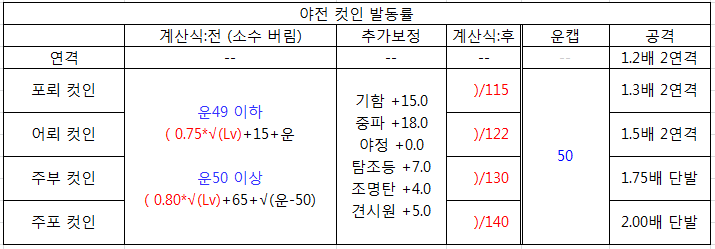
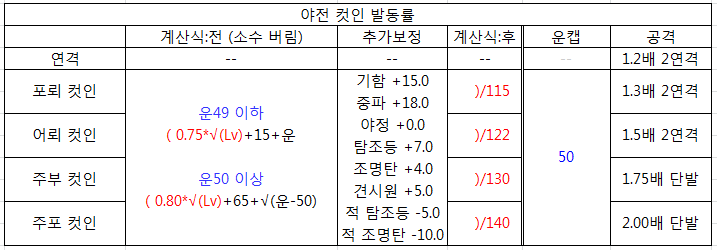
Add files via upload

diff --git a/index.html b/index.html
@@ -9,7 +9,9 @@
 <h1>컷인 발동률</h1>
 
 	<div class="input_parameter">
-		LV : <input type="number" id="input_lv" value="0" />
+		<fieldset>
+		<legend>아군</legend>
+		Lv : <input type="number" id="input_lv" value="0" />
 		<br><br>
 		운 : <input type="number" id="input_luck" value="0" />
 		<br><br>
@@ -51,15 +53,36 @@
           <option value="5">True</option>
           <option value="0" selected>False</option>
        </select>
+	   </fieldset>
+
+	   <fieldset>
+	   <legend>적</legend>
+	   	탐조등 : 
+       <select id="e_searchlight">
+          <option value="5">True</option>
+          <option value="0" selected>False</option>
+       </select>
+	   &nbsp&nbsp
+	   	조명탄 : 
+       <select id="e_flare">
+          <option value="10">True</option>
+          <option value="0" selected>False</option>
+       </select>
+	   </fieldset>
 	</div>
 	<br>
+	<fieldset>
+	<legend>결과</legend>
 	컷인 발동률 : 
 	<font size="3"><p class="result" style="display:inline"></p></font>
-	<br><br>
+	</fieldset>
+	<br>
 	<b>계산식</b><br>
 	<img src="cal.png"> 
 	<br><br>
-	참고 : <a href="https://gall.dcinside.com/kancolle/6076413">https://gall.dcinside.com/kancolle/6076413</a>
+	참고 : 
+	<br><a href="https://gall.dcinside.com/kancolle/6076413">https://gall.dcinside.com/kancolle/6076413</a>
+	<br><a href="https://docs.google.com/document/d/1tqYyqzdc1RT_fYDKFMcUId0kOZHCdGpVsObm6yt-Yco/edit#heading=h.8xfufzuc60lx">艦これ改のソフトって解析（翻訳）</a>
 
 <script src="https://ajax.googleapis.com/ajax/libs/jquery/1.12.4/jquery.min.js"></script>
 <script type="text/javascript" src="cal.js"></script>

diff --git a/cal.js b/cal.js
@@ -18,14 +18,19 @@ function get_number(id, max) {
 
 
 function update() {
-	lv=get_number("input_lv", 9999)
-	luck=get_number("input_luck", 9999)
-	mode=get_number("mode", 9999)
-	flagship=get_number("flagship", 9999)
-	medium=get_number("medium", 9999)
-	searchlight=get_number("searchlight", 9999)
-	flare=get_number("flare", 9999)
-	lookout=get_number("lookout", 9999)
+	var lv				= get_number("input_lv", 9999)
+	var luck			= get_number("input_luck", 9999)
+	var mode			= get_number("mode", 9999)
+	var flagship		= get_number("flagship", 9999)
+	var medium			= get_number("medium", 9999)
+	var searchlight		= get_number("searchlight", 9999)
+	var flare			= get_number("flare", 9999)
+	var lookout			= get_number("lookout", 9999)
+	
+	var e_searchlight	= get_number("e_searchlight", 9999)
+	var e_flare			= get_number("e_flare", 9999)
+	
+	var main_cal 		= 0
 	
 	if (luck<50) {
 		main_cal = 0.75 * Math.sqrt(lv) + 15 + luck
@@ -33,7 +38,9 @@ function update() {
 	else {
 		main_cal = 0.8 * Math.sqrt(lv) + 65 + Math.sqrt(luck - 50)
 	}
-	main_cal = Math.trunc(main_cal + flagship + medium + searchlight + flare + lookout) / mode * 100
+	friend_cal = flagship + medium + searchlight + flare + lookout
+	enemy_cal = e_searchlight + e_flare
+	main_cal = Math.trunc(main_cal + friend_cal - enemy_cal) / mode * 100
 	$("p.result").text(main_cal.toFixed(2)+"%");
 	
 }
